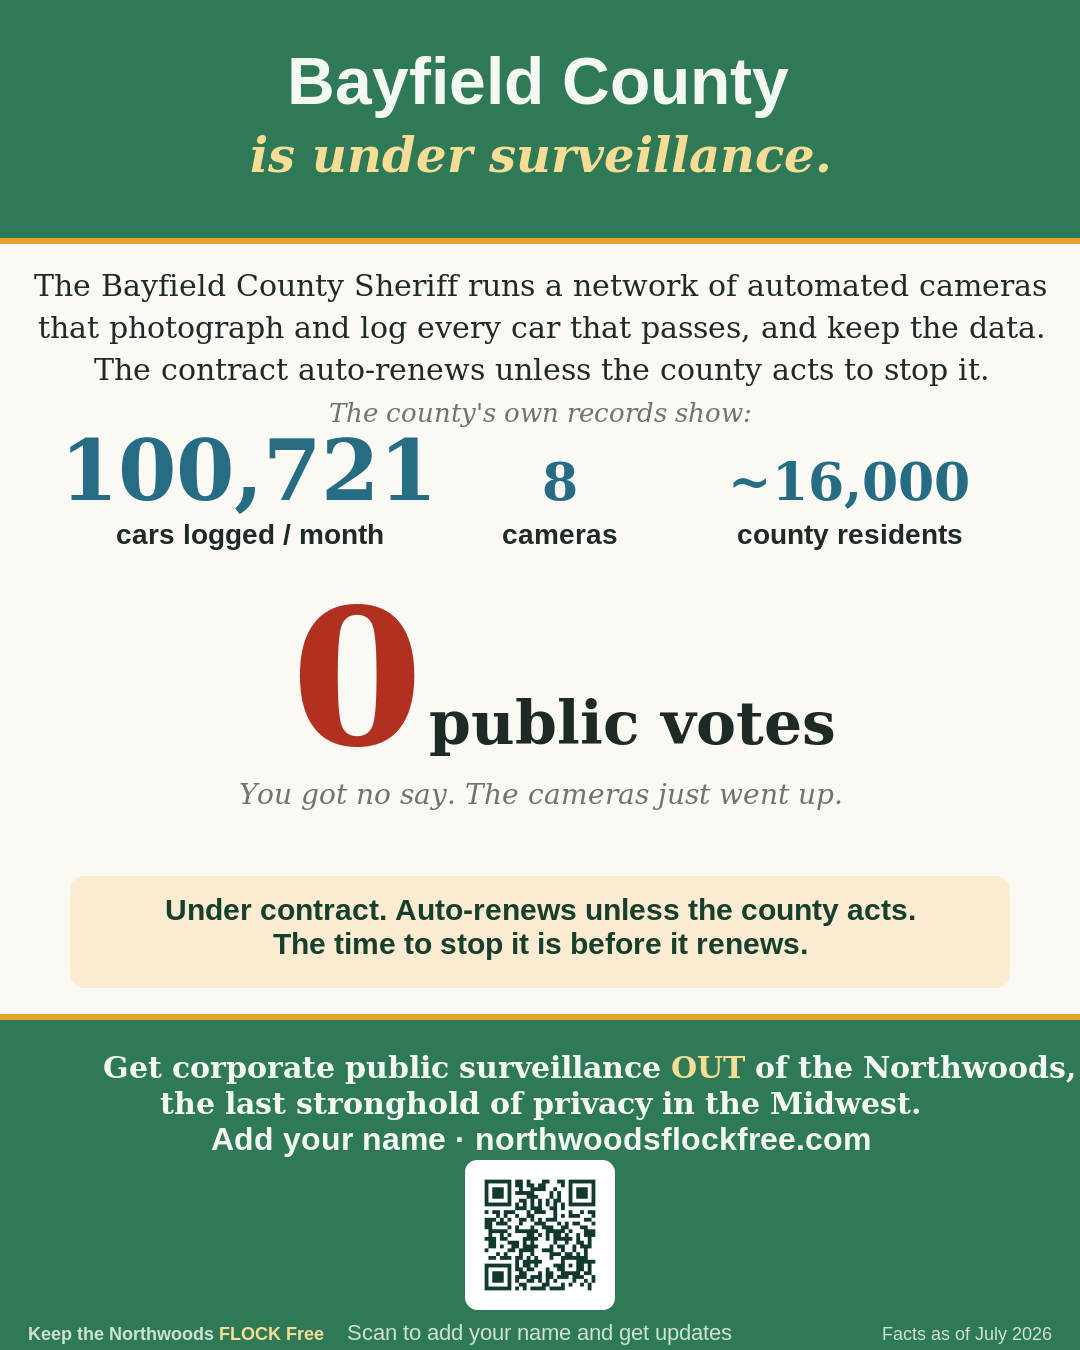
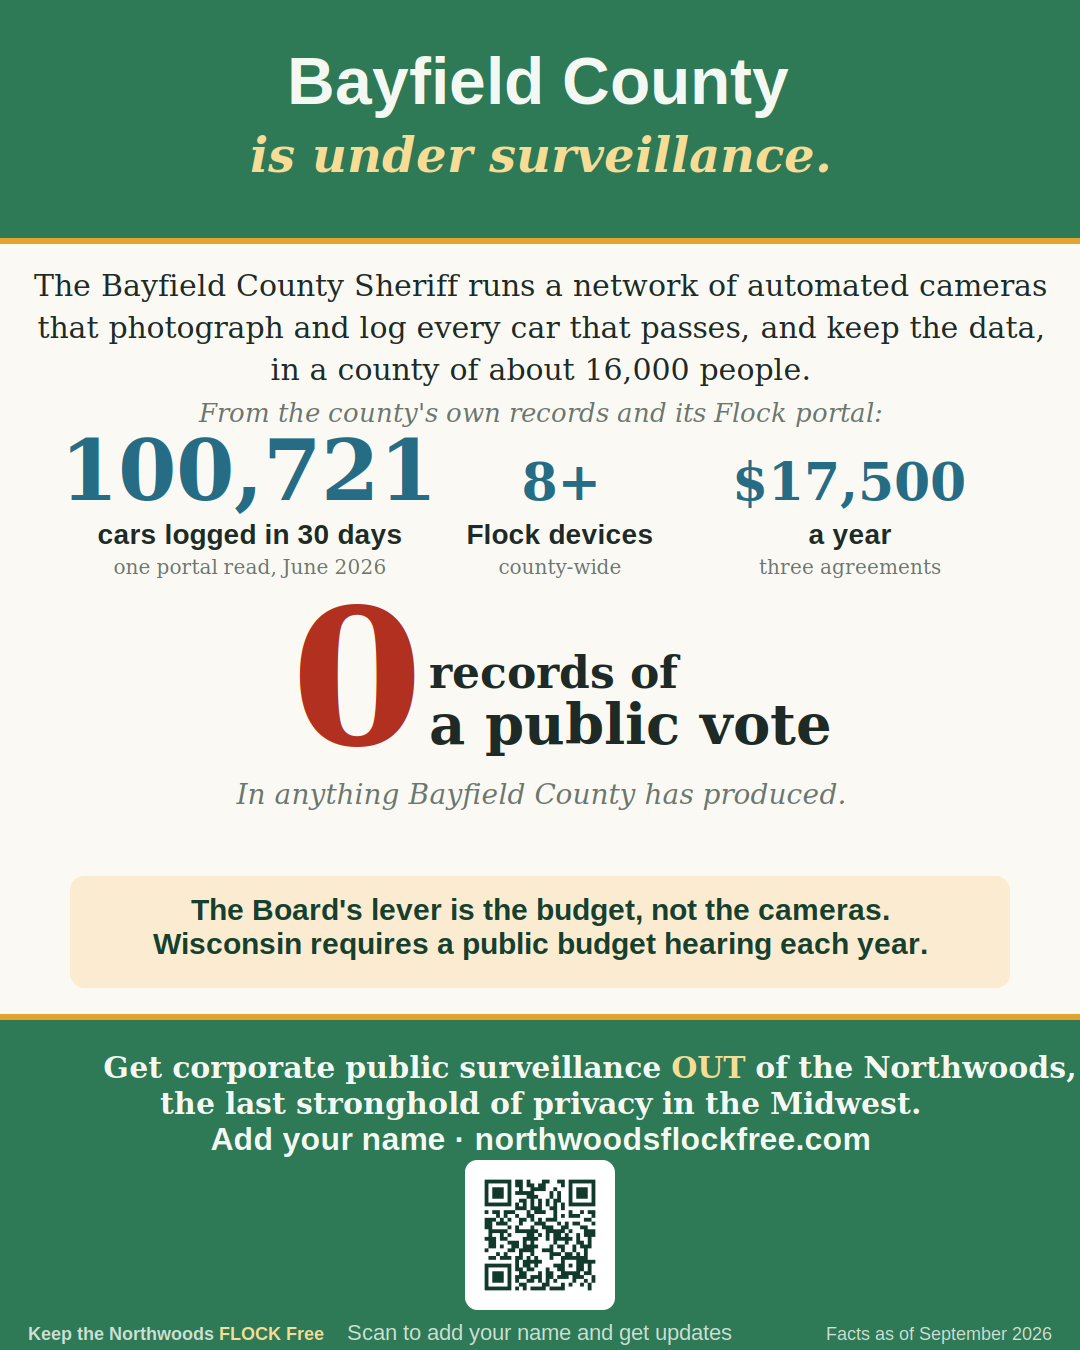
claims: rebuild both mobile social cards, drop the barred device total in areas.html
Swept the repo against claims-register.md. Three live defects, all of them
claims the register had already retired, barred or superseded.

areas.html - photo caption read "One of Bayfield County's eight cameras."
A flat device total, BARRED pending Sheriff Williams' answer on whether the
portal's eight includes the two video cameras. Four lines above it the page
already says "At least eight Flock devices county-wide," so the page
contradicted itself, and the caption is the version search engines index.
The count is removed rather than softened; no current replacement exists.

downloads/bayfield-mobile.png - rebuilt in place, same 1080x1350, same
template, same QR. Removed: "The contract auto-renews unless the county acts
to stop it" and the two CTA lines built on it (SUPERSEDED 2026-07-30, and
directly contradicted by areas.html, which now tells readers there is no
Bayfield fall deadline); "8 / cameras" (barred flat total); "100,721 / cars
logged / month" (window-scoped figure served as a rate); "0 public votes"
(RETIRED 2026-07-31, the citation was false - nobody has read the minutes);
"You got no say. The cameras just went up." (unverified absolute negative).
Now: 100,721 cars logged in 30 days / one portal read, June 2026 - 8+ Flock
devices county-wide - $17,500 a year, three agreements - 0 records of a
public vote, in anything Bayfield County has produced. The CTA is replaced
with the budget lever the site itself moved to on 2026-07-30.
[…]

diff --git a/areas.html b/areas.html
@@ -93,7 +93,7 @@
               <div class="panel-field" id="bayfield-records" style="scroll-margin-top:80px"><div class="pf-bar">What the county's own records show</div><div class="pf-body"><p style="margin:0 0 .7em"><b>Records obtained from the Bayfield County Sheriff, July 29, 2026.</b> The county's Flock program runs on three separate agreements, not one. The signed order forms and the invoices add up to about $17,500 a year. Together those three agreements cover six license plate readers and two solar video cameras. The Sheriff signed the video-camera agreement in October 2025, and the order form describes the cameras as an addition to an existing plate-reader install. We have asked the county when they were installed and do not yet have that answer. I have not found any record of a public vote on any of the three.</p><p style="margin:0 0 .7em">A plate reader photographs a car and reads the plate. A video camera watches a place, and the people in it. Flock's own website describes a "Guardian Mode" that "automatically detects and locates people and vehicles in the camera's field of view," and under a heading reading "Follow Movements Automatically" says it will "identify people and vehicles, zooming in for identifying details."</p><p style="margin:0"><b>In fairness to Flock:</b> the company says that feature "captures fixed points in time, not continuous tracking," and it states plainly that its cameras do not use facial recognition. We have seen nothing to contradict that. Our objection is not that the county bought something sinister. It is that a camera that watches people is a different decision than a camera that reads plates, and we have found no record that either decision was ever put to the public.</p><p style="margin:.7em 0 0">One thing worth being straight about: Bayfield's plate readers are not up for renewal this fall. The invoices show a 60-month term on the original agreement and a 48-month term on the expansion, which run into 2028 and 2029. Anyone telling you there is a Bayfield deadline in September has it confused with Ashland County. The Bayfield lever is the county budget, not a contract clock.</p></div></div>
               <figure class="photo-figure">
                 <img src="images/flock-camera-cable.jpg" width="1200" height="1600" loading="lazy" alt="A solar-powered Flock license-plate camera on a pole beside US-63 in Cable, Wisconsin, near the American Birkebeiner Trail sign">
-                <figcaption>One of Bayfield County's eight cameras: US-63 in Cable, quietly logging every car through town.</figcaption>
+                <figcaption>One of Bayfield County's Flock cameras: US-63 in Cable, quietly logging every car through town.</figcaption>
               </figure>
               <div class="panel-field"><div class="pf-bar">Who decides</div><div class="pf-body">The Bayfield County Board (13 districts) and the Sheriff. The Sheriff is independently elected, so the Board cannot order a camera switched off. What the Board controls is the money. Wisconsin law requires the county to hold a <b>public budget hearing no later than the first Monday in November</b>, and that hearing is where the funding decision actually gets made. The Board's <b>September 29</b> meeting is the earlier opening to get it discussed on the record.</div></div>
               <div class="panel-field"><div class="pf-bar">One approval, finally</div><div class="pf-body">On August 18, 2026, the City of Bayfield's public works director told us the county approached the city about mounting a camera on a city-owned light pole roughly two years ago. It went to the city's Public Works Committee and the Bayfield Police Department, and both agreed. That is the only committee-level approval we have found anywhere in this campaign, in any county. It was also described to the city as being for amber alerts. He added that he was not aware a public vote was needed.</div></div>
